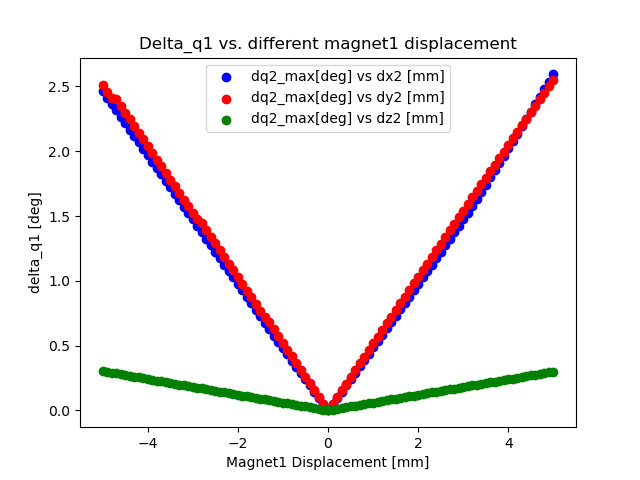
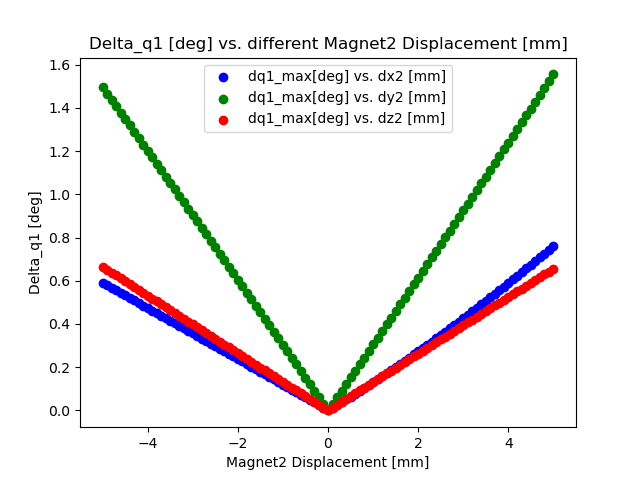
images generated for presentation

diff --git a/Magbot Simulation/data_processing/overlay.py b/Magbot Simulation/data_processing/overlay.py
@@ -3,38 +3,95 @@ import matplotlib.pyplot as plt
 import pandas as pd
 import os
 
-#root_path = '/mnt/newstorage/summer_project'
-root_path = '/home/vincent-gu/summer_project'
-folder1 = 'results_dx2'
-folder2 = 'results_dy2'
-folder3 = 'results_dz2'
+mag1_folders = ['results_dx1', 'results_dy1', 'results_dz1']
+mag2_folders = ['results_dx2', 'results_dy2', 'results_dz2']
+#png_names = ['d1_dq1_max', 'd1_dq2_max', 'd2_dq1_max', 'd2_dq2_max']
+png_names = ['d1_dq1_mean', 'd1_dq2_mean', 'd2_dq1_mean', 'd2_dq2_mean']
+x_labels = ['Magnet1 Displacement [mm]', 'Magnet2 Displacement [mm]']
+y_labels = ['Delta_q1 [deg]', 'Delta_q2 [deg]']
+colors = ['blue', 'green', 'red']
 
-csv_1 = os.path.join(root_path, folder1, 'result.csv')
-csv_2 = os.path.join(root_path, folder2, 'result.csv')
-csv_3 = os.path.join(root_path, folder3, 'result.csv')
+root_path = '/mnt/newstorage/summer_project'
 
-data1 = pd.read_csv(csv_1)
-data2 = pd.read_csv(csv_2)
-data3 = pd.read_csv(csv_3)
+cy1 = 7 #column for dq1_max
+cy2 = 9 #column for dq2_max
 
-cx = 3
-cy = 6
+#process the mag_1 dq1
+for i in range(len(mag1_folders)):
+    csv_file = os.path.join(root_path, mag1_folders[i], 'result.csv')
+    data = pd.read_csv(csv_file)
 
-x = data1.iloc[:, cx]
-y1 = data1.iloc[:, cy]
-y2 = data2.iloc[:, cy]
-y3 = data3.iloc[:, cy]
+    x = data.iloc[:, i]
+    y = data.iloc[:, cy1]
 
-plt.scatter(x, y1, color = 'blue', label = f'{data1.columns[cy]} vs {data1.columns[3]} [mm]')
-plt.scatter(x, y2, color = 'red', label = f'{data2.columns[cy]} vs {data2.columns[4]} [mm]')
-plt.scatter(x, y3, color = 'green', label = f'{data3.columns[cy]} vs {data3.columns[5]} [mm]')
-plt.xlabel('Magnet1 Displacement [mm]')
-plt.ylabel('delta_q1 [deg]')
-plt.title('Delta_q1 vs. different magnet1 displacement')
+    plt.scatter(x, y, color = colors[i], label = f'{data.columns[cy1]} vs. {data.columns[i]} [mm]')
+
+plt.xlabel(x_labels[0])
+plt.ylabel(y_labels[0])
+plt.title(f'{y_labels[0]} vs. different {x_labels[0]}')
 plt.legend()
-#plt.show()
-
-png_name = 'd2_dq2_max'
+png_name = png_names[0]
 png_path = os.path.join(root_path, 'images_present')
 save_path = os.path.join(png_path, png_name)
 plt.savefig(save_path)
+plt.close()
+
+#mag_1 dq2
+for i in range(len(mag2_folders)):
+    csv_file = os.path.join(root_path, mag1_folders[i], 'result.csv')
+    data = pd.read_csv(csv_file)
+
+    x = data.iloc[:, i]
+    y = data.iloc[:, cy2]
+
+    plt.scatter(x, y, color = colors[i], label = f'{data.columns[cy1]} vs. {data.columns[i]} [mm]')
+
+plt.xlabel(x_labels[0])
+plt.ylabel(y_labels[1])
+plt.title(f'{y_labels[1]} vs. different {x_labels[0]}')
+plt.legend()
+png_name = png_names[1]
+png_path = os.path.join(root_path, 'images_present')
+save_path = os.path.join(png_path, png_name)
+plt.savefig(save_path)
+plt.close()
+
+#mag_2 dq1
+for i in range(len(mag1_folders), len(mag2_folders)+len(mag1_folders)):
+    csv_file = os.path.join(root_path, mag2_folders[i-len(mag1_folders)], 'result.csv')
+    data = pd.read_csv(csv_file)
+
+    x = data.iloc[:, i]
+    y = data.iloc[:, cy1]
+
+    plt.scatter(x, y, color = colors[i-len(mag1_folders)], label = f'{data.columns[cy1]} vs. {data.columns[i]} [mm]')
+
+plt.xlabel(x_labels[1])
+plt.ylabel(y_labels[0])
+plt.title(f'{y_labels[0]} vs. different {x_labels[1]}')
+plt.legend()
+png_name = png_names[2]
+png_path = os.path.join(root_path, 'images_present')
+save_path = os.path.join(png_path, png_name)
+plt.savefig(save_path)
+plt.close()
+
+#mag_2 dq2
+for i in range(len(mag1_folders), len(mag2_folders)+len(mag1_folders)):
+    csv_file = os.path.join(root_path, mag2_folders[i-len(mag1_folders)], 'result.csv')
+    data = pd.read_csv(csv_file)
+
+    x = data.iloc[:, i]
+    y = data.iloc[:, cy2]
+
+    plt.scatter(x, y, color = colors[i-len(mag1_folders)], label = f'{data.columns[cy1]} vs. {data.columns[i]} [mm]')
+
+plt.xlabel(x_labels[1])
+plt.ylabel(y_labels[1])
+plt.title(f'{y_labels[1]} vs. different {x_labels[1]}')
+plt.legend()
+png_name = png_names[3]
+png_path = os.path.join(root_path, 'images_present')
+save_path = os.path.join(png_path, png_name)
+plt.savefig(save_path)
+plt.close()
